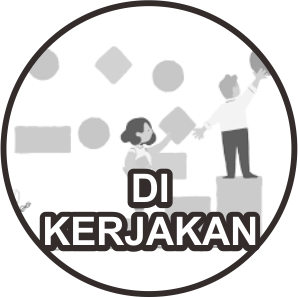
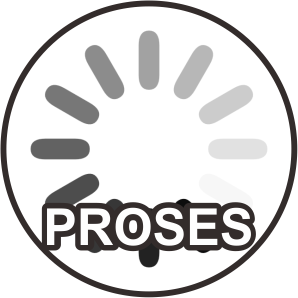
hem hem

diff --git a/application/views/keranjang/keranjang.php b/application/views/keranjang/keranjang.php
@@ -1,23 +1,17 @@
 <div class="container">
   <div class="row">
-    <div class="col-sm-2"></div>
-    <div class="col-xs-3 col-sm-2 text-right">
-      <a href="<?=('upload');?>"><span class="label label-danger">3</span>
-        <img src="<?php echo base_url().'image/dompet.png' ?>" class="img-responsive img-thumnail" alt="">
-
+    <div class="col-sm-3"></div>
+    <div class="col-xs-4 col-sm-2 text-right">
+      <a href="#"><span class="label label-danger">2</span>
+        <img src="<?php echo base_url().'image/persiapan.png' ?>" class="img-responsive img-thumnail" alt="">
       </a>
     </div>
-    <div class="col-xs-3 col-sm-2 text-right">
-      <a href="#"><span class="label label-danger">2</span>
+    <div class="col-xs-4 col-sm-2 text-right">
+      <a href="#"><span class="label label-danger">1</span>
         <img src="<?php echo base_url().'image/proses.png' ?>" class="img-responsive img-thumnail" alt="">
       </a>
     </div>
-    <div class="col-xs-3 col-sm-2 text-right">
-      <a href="#"><span class="label label-danger">1</span>
-        <img src="<?php echo base_url().'image/dikirim.png' ?>" class="img-responsive img-thumnail" alt="">
-      </a>
-    </div>
-    <div class="col-xs-3 col-sm-2 text-right">
+    <div class="col-xs-4 col-sm-2 text-right">
       <a href="<?=('ceklis') ?>"><span class="label label-danger">1</span>
         <img src="<?php echo base_url().'image/selesai.png' ?>" class="img-responsive img-thumnail" alt="">
       </a>
@@ -113,13 +107,13 @@
 <nav class="navbar navbar-default navbar-fixed-bottom" role="navigation">
   <div class="container">
     <div class="row">
-      <div class="col-xs-4">
+      <div class="col-xs-4 text-right">
         <div class="checkbox text-success">
           <label><input type="checkbox" name="">
           PILIH SEMUA</label>
         </div>
       </div>
-      <div class="col-xs-4 text-right">
+      <div class="col-xs-2 text-right">
         Subtotal <p class="text-danger ">Rp. xxx</p>
       </div>
       <div class="col-xs-4 text-center">

diff --git a/application/views/keranjang/pembayaran.php b/application/views/keranjang/pembayaran.php
@@ -7,13 +7,13 @@
 				<thead>
 					<tr>
 						<th>Nama</th>
-						<td>: xxxxx</td>
+						<td>: nama pemesan</td>
 					</tr>
 				</thead>
 				<tbody>
 					<tr>
 						<th>Alamat</th>
-						<td>: xxxxx</td>
+						<td>: alamat pemesan</td>
 					</tr>
 				</tbody>
 			</table>
@@ -40,6 +40,19 @@
 							<label>Lokasi acara</label>
 							<textarea rows="4" class="form-control" required=""></textarea>
 						</div>
+					</div>
+					<div class="col-sm-2"></div>
+					<div class="col-sm-6">
+						<h2>Daftar paket yang akan dibeli</h2>
+						<ul type="square">
+							<li>Tratag</li>
+							<li>Konsumsi</li>
+							<li>MUA</li>
+							<li>Sound System</li>
+							<li>Dekorasi</li>
+						</ul> 
+						<h2>Harga Paket</h2>
+						<h3>Rp. 15.000.000</h3>
 					</div>
 				</div>
 			</div>
@@ -102,21 +115,15 @@
 <nav class="navbar navbar-default navbar-fixed-bottom hehe" role="navigation">
 	<div class="container">
 		<div class="row">
-			<div class="col-xs-6">
-				<div class="checkbox text-success text-right">
-					<label><input type="checkbox" name="">
-					PILIH SEMUA</label>
-				</div>
-			</div>
-			<div class="col-xs-6">
+			<div class="col-xs-12 text-center">
 				Subtotal <p class="text-danger ">Rp. xxx</p>
 			</div>
 			<div class="col-xs-10 col-xs-offset-1 text-center">
 				<a href="<?php echo base_url().'upload' ?>" class="btn btn-danger btn-block">BAYAR</a>
 			</div>
-			<div class="col-xs-12">.</div>
+			<div class="col-xs-12"></div>
 			<div class="col-xs-10 col-xs-offset-1 text-center">
-				<a class="btn btn-default btn-block" data-toggle="modal" href='#modal-id'>Tambah ke keranjang</a>
+				<a class="btn btn-primary btn-block" data-toggle="modal" href='#modal-id'>Tambah ke keranjang</a>
 			</div>
 		</div>
 

diff --git a/application/views/detail_paket.php b/application/views/detail_paket.php
@@ -14,7 +14,14 @@
 					<li>Sound System</li>
 					<li>Dekorasi</li>
 				</ul> 
+				<h2>Harga Paket</h2>
+				<h3>Rp. 15.000.000</h3>
 			</div>
+		</div>
+		<br>
+		<div class="sixteen wide column">
+			<h2>Lokasi EO</h2>
+			<p>Gawis Kulon, Gondowulan, Kepil, Wonosobo</p>
 		</div>
 		
 		<div class="ui hidden divider"></div>
@@ -22,11 +29,4 @@
 			<div class="fourteen wide column"></div>
 			<div class="five wide column center aligned"><a href="<?php echo base_url().'pembayaran' ?>" class="ui green button fluid"><i class="calendar outline icon"></i>BOOKING NOW</a></div>
 		</div><br>
-		<h4>Jika sudah Order, tunggu notifikasi untuk pembayaran dan informasi lebih lanjut</h4>
-		<div class="ui hidden divider"></div>
-		<div class="ui stackable container grid center aligned">
-			<div class="fourteen wide column"></div>
-			<div class="four wide column center aligned"><a href="#" class="ui whatsapp circular button fluid"><i class="whatsapp icon"></i>Chat WhatsApp</a></div>
-			<div class="four wide column center aligned"><a href="" class="ui red circular button fluid"><i class="flag outline icon"></i>Laporan Pelanggaran</a></div>
-		</div>
 	</div>

diff --git a/application/views/keranjang/status_transaksi.php b/application/views/keranjang/status_transaksi.php
@@ -18,7 +18,7 @@
       <div class="timeline-badge warning"><i class="glyphicon glyphicon-credit-card"></i></div>
       <div class="timeline-panel">
         <div class="timeline-heading">
-          <h4 class="timeline-title">Sedang Dikerjakan</h4>
+          <h4 class="timeline-title">Sedang Dipersiapkan</h4>
         </div>
         <div class="timeline-body">
           <p>Pesanan anda sedang dipersiapkan untuk kemudian akan dikirim dan di kerjakan ditempat sesuai yang anda esan jika ingin melihat detail, silahkan klik disini!</p>
@@ -29,7 +29,7 @@
       <div class="timeline-badge danger"><i class="glyphicon glyphicon-credit-card"></i></div>
       <div class="timeline-panel">
         <div class="timeline-heading">
-          <h4 class="timeline-title">Sedang Dalam Perjalanan</h4>
+          <h4 class="timeline-title">Sedang Dalam Proses</h4>
         </div>
         <div class="timeline-body">
           <p>Vendor dalam proses pengiriman pesanan dan silahkan tunggu beberapa detik lagi duarrr1</p>

diff --git a/application/views/keranjang/header_transaksi.php b/application/views/keranjang/header_transaksi.php
@@ -32,3 +32,11 @@
     </script>
   </head>
   <body>
+    <ol class="breadcrumb">
+      <li>
+        <a href="<?=('transaksi')?>">Keranjang</a>
+      </li>
+      <li>
+        <a href="<?=('upload')?>">Belum bayar</a>
+      </li>
+    </ol>

diff --git a/application/views/keranjang/footer_transaksi.php b/application/views/keranjang/footer_transaksi.php
@@ -9,6 +9,12 @@
   .hehe{
     margin-top: 20px;
 }
+ul,a{
+    color: black;
+}
+ul,a:hover{
+    color: black;
+}
 .heder{
     background-color: #9876;
 }

diff --git a/application/views/keranjang/header.php b/application/views/keranjang/header.php
@@ -79,6 +79,8 @@ $('.ui.modal')
 		<br>
 	</div>
 </div>
+ </div>
+ </div>
 <br>
 <br>
 <br>
